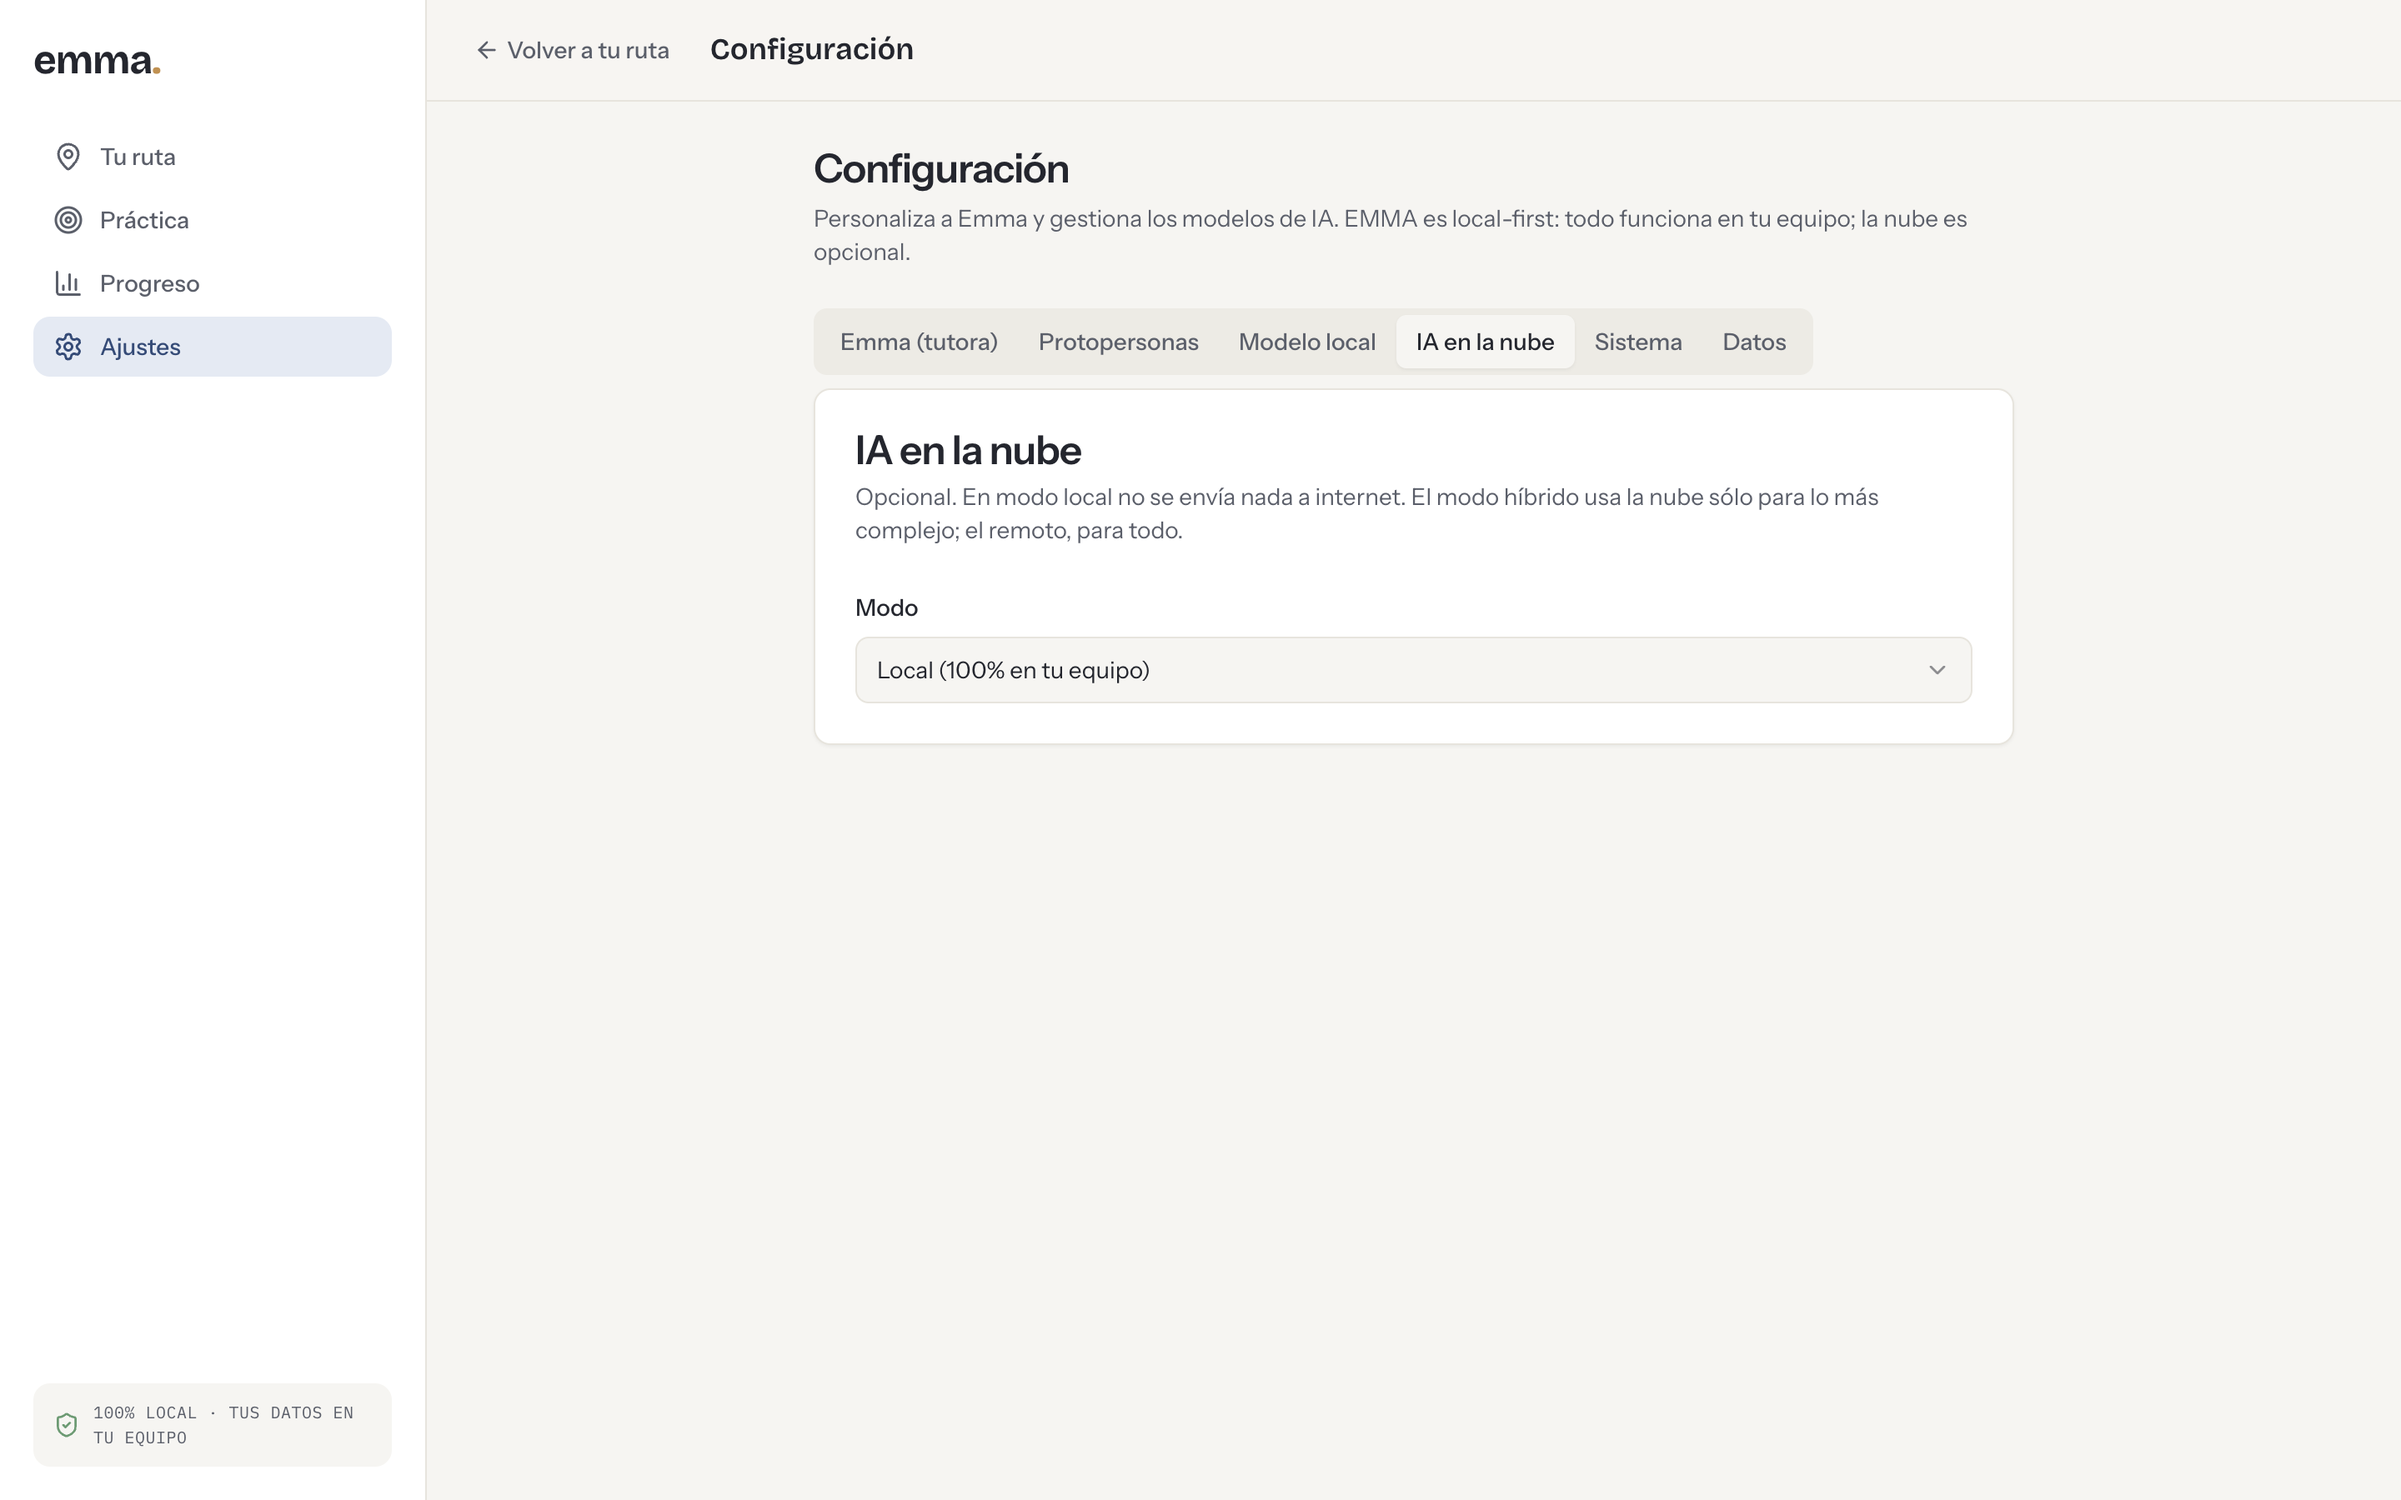
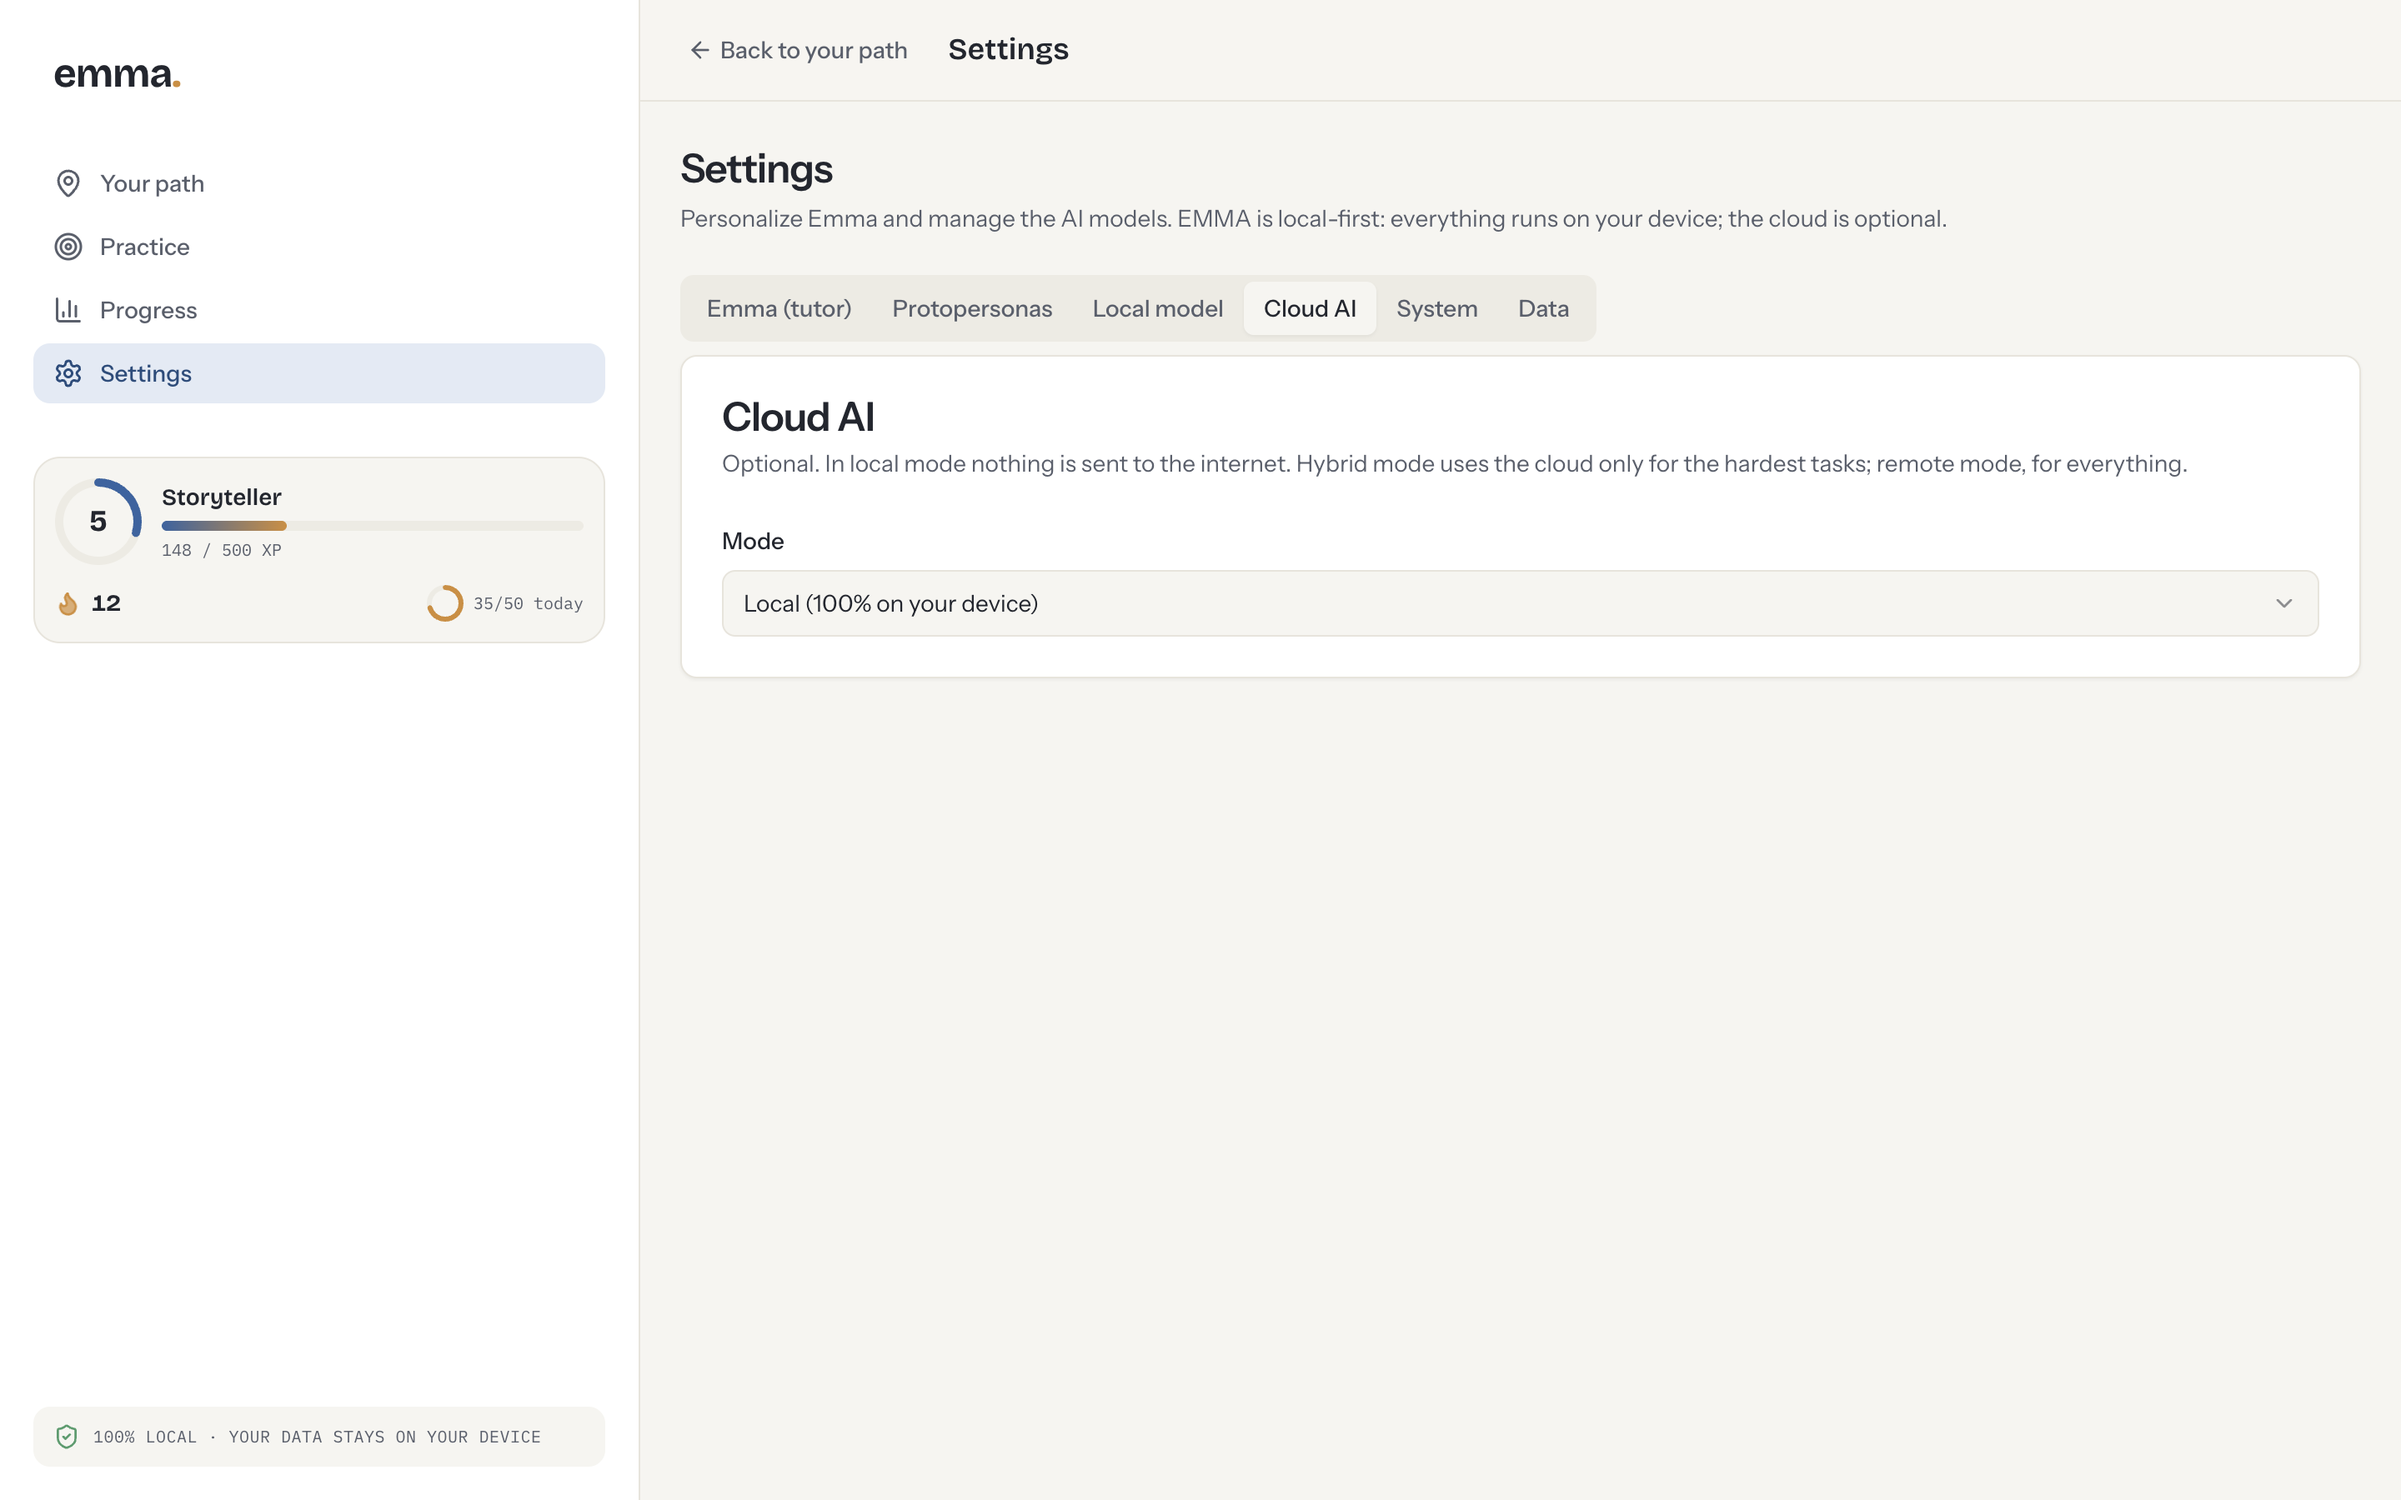
docs(site): vitrina al día con v0.8.1 — capturas en inglés y gamificación
Las 7 capturas eran de antes de la v0.7.0 (UI en español). Se rehacen
con la UI en inglés y se agrega la celebración de subida de nivel.
La sección de progreso deja de decir «no un puntaje»: ahora hay XP,
racha, meta diaria y logros. «Qué trae» suma gamificación y la ruta
que se desbloquea con las lecciones. Tamaños de modelo reales.

sin-issue: actualización de la vitrina pública para v0.8.1

diff --git a/site/index.html b/site/index.html
@@ -49,7 +49,7 @@
     </div>
     <figure class="marco" style="margin:0">
       <div class="marco-cabecera"><i></i><i></i><i></i></div>
-      <img src="img/ruta.png" width="2880" height="1800" alt="Pantalla principal de EMMA: la ruta CEFR con escenas completadas, en curso y bloqueadas." />
+      <img src="img/ruta.png" width="2880" height="1800" alt="Pantalla principal de EMMA: la ruta CEFR con escenas completadas, la siguiente y las bloqueadas; en la barra lateral, el nivel de jugador, la racha y la meta del día." />
     </figure>
   </div>
 </section>
@@ -108,40 +108,58 @@
         <a class="ampliar" href="img/escena.png">Ver la captura a tamaño completo</a>
         </figcaption>
         <a class="marco" href="img/escena.png" title="Abrir la captura a tamaño completo">
-          <img src="img/escena.png" width="2880" height="1800" loading="lazy" alt="Pantalla de la escena Daily Standup: personaje, situación y objetivos de la conversación." />
+          <img src="img/escena.png" width="2880" height="1800" loading="lazy" alt="Antesala de la escena Introduce Yourself to a New Team: la Tech Lead con la que vas a hablar, la situación y tus objetivos." />
         </a>
       </figure>
 
       <figure class="toma invertida" style="margin:0">
         <figcaption>
-          <h3>Tu progreso es el camino, no un puntaje</h3>
+          <h3>Tu constancia se ve</h3>
           <p>
-            Recorrés escenarios de tu nivel CEFR. Aprobás uno con pocos errores por turno;
-            tres aprobados seguidos te promueven de A1 hacia C1.
+            Cada práctica suma XP: conversaciones, ejercicios, repasos, pares mínimos, retos y
+            lecciones. Subís de nivel de jugador, cuidás una racha diaria, llenás la meta de
+            50 XP del día y desbloqueás logros. Tu nivel de inglés sigue su propio camino: tres
+            escenas aprobadas seguidas te promueven de A1 hacia C1.
           </p>
-          <p class="detalle">39 escenarios de trabajo, de «Daily Standup» a «Documentation Writing Workshop».</p>
+          <p class="detalle">15 logros de bronce, plata y oro · la semana en barras · 39 escenarios de trabajo.</p>
         <a class="ampliar" href="img/progreso.png">Ver la captura a tamaño completo</a>
         </figcaption>
         <a class="marco" href="img/progreso.png" title="Abrir la captura a tamaño completo">
-          <img src="img/progreso.png" width="2880" height="1800" loading="lazy" alt="Pantalla de progreso: nivel B1, escenarios superados y recomendación del día." />
+          <img src="img/progreso.png" width="2880" height="1800" loading="lazy" alt="Pantalla de progreso: panel Your journey con nivel de jugador 5, racha de 12 días, meta diaria, XP de la semana en barras y logros desbloqueados." />
         </a>
       </figure>
 
       <figure class="toma" style="margin:0">
         <figcaption>
-          <h3>Laboratorio de pronunciación</h3>
+          <h3>Cada avance se celebra</h3>
           <p>
-            Pares mínimos que de verdad te cuestan (/ɪ/ vs /iː/), con audio, micrófono y una
-            rutina de shadowing que se graba oración por oración.
+            Acertás un par mínimo y aparece el «+XP»; cumplís la meta del día y te lo avisa;
+            desbloqueás un logro y llega su medalla. Al subir de nivel, confeti.
           </p>
-        <a class="ampliar" href="img/pronunciacion.png">Ver la captura a tamaño completo</a>
+          <p class="detalle">Animaciones livianas que respetan la opción «reducir movimiento» del sistema.</p>
+        <a class="ampliar" href="img/celebracion.png">Ver la captura a tamaño completo</a>
         </figcaption>
-        <a class="marco" href="img/pronunciacion.png" title="Abrir la captura a tamaño completo">
-          <img src="img/pronunciacion.png" width="2880" height="1800" loading="lazy" alt="Laboratorio de pronunciación: par mínimo live/leave y rutina de shadowing en seis pasos." />
+        <a class="marco" href="img/celebracion.png" title="Abrir la captura a tamaño completo">
+          <img src="img/celebracion.png" width="2880" height="1800" loading="lazy" alt="Celebración de subida de nivel: tarjeta Level up con el nivel 6, Communicator, confeti y el aviso +4 XP." />
         </a>
       </figure>
 
       <figure class="toma invertida" style="margin:0">
+        <figcaption>
+          <h3>Laboratorio de pronunciación</h3>
+          <p>
+            Pares mínimos que de verdad te cuestan (/ɪ/ vs /iː/) dentro de oraciones de tu
+            nivel: escuchás, elegís, repetís y la máquina te dice si te entendió. El shadowing
+            tiene su propia pestaña.
+          </p>
+        <a class="ampliar" href="img/pronunciacion.png">Ver la captura a tamaño completo</a>
+        </figcaption>
+        <a class="marco" href="img/pronunciacion.png" title="Abrir la captura a tamaño completo">
+          <img src="img/pronunciacion.png" width="2880" height="1800" loading="lazy" alt="Laboratorio de pronunciación: par mínimo live/leave en una oración, respuesta correcta y el aviso +4 XP." />
+        </a>
+      </figure>
+
+      <figure class="toma" style="margin:0">
         <figcaption>
           <h3>Plan de estudio y ejercicios</h3>
           <p>
@@ -156,7 +174,7 @@
         </a>
       </figure>
 
-      <figure class="toma" style="margin:0">
+      <figure class="toma invertida" style="margin:0">
         <figcaption>
           <h3>El modelo vive en tu disco</h3>
           <p>
@@ -167,7 +185,7 @@
         <a class="ampliar" href="img/modelo-local.png">Ver la captura a tamaño completo</a>
         </figcaption>
         <a class="marco" href="img/modelo-local.png" title="Abrir la captura a tamaño completo">
-          <img src="img/modelo-local.png" width="2880" height="1800" loading="lazy" alt="Ajustes de modelo local: Gemma 4 E2B y E4B con tamaño y RAM sugerida." />
+          <img src="img/modelo-local.png" width="2880" height="1800" loading="lazy" alt="Ajustes, pestaña Local model: Gemma 4 E2B y E4B con tamaño y RAM sugerida; E4B recomendado y descargado." />
         </a>
       </figure>
 
@@ -191,7 +209,7 @@
       </ul>
     </div>
     <a class="marco" href="img/ia-nube.png" title="Abrir la captura a tamaño completo">
-      <img src="img/ia-nube.png" width="2880" height="1800" loading="lazy" alt="Ajuste «IA en la nube» en modo Local (100 % en tu equipo)." />
+      <img src="img/ia-nube.png" width="2880" height="1800" loading="lazy" alt="Ajustes, pestaña Cloud AI en modo Local (100% on your device)." />
     </a>
   </div>
 </section>
@@ -219,6 +237,14 @@
       <article class="capacidad">
         <h3>Emma a tu medida</h3>
         <p>Tono, actitud, estilo de voz y nivel de detalle de la tutora; y protopersonas para los personajes de cada escena.</p>
+      </article>
+      <article class="capacidad">
+        <h3>XP, rachas y logros</h3>
+        <p>Cada práctica suma: nivel de jugador, racha diaria, meta del día y 15 logros, siempre a la vista en la barra lateral.</p>
+      </article>
+      <article class="capacidad">
+        <h3>Una ruta que se gana</h3>
+        <p>Lo que Emma te deja al cerrar una escena se practica antes de abrir la siguiente: la ruta avanza cuando cerrás tus lecciones.</p>
       </article>
       <article class="capacidad">
         <h3>Continuidad entre sesiones</h3>
